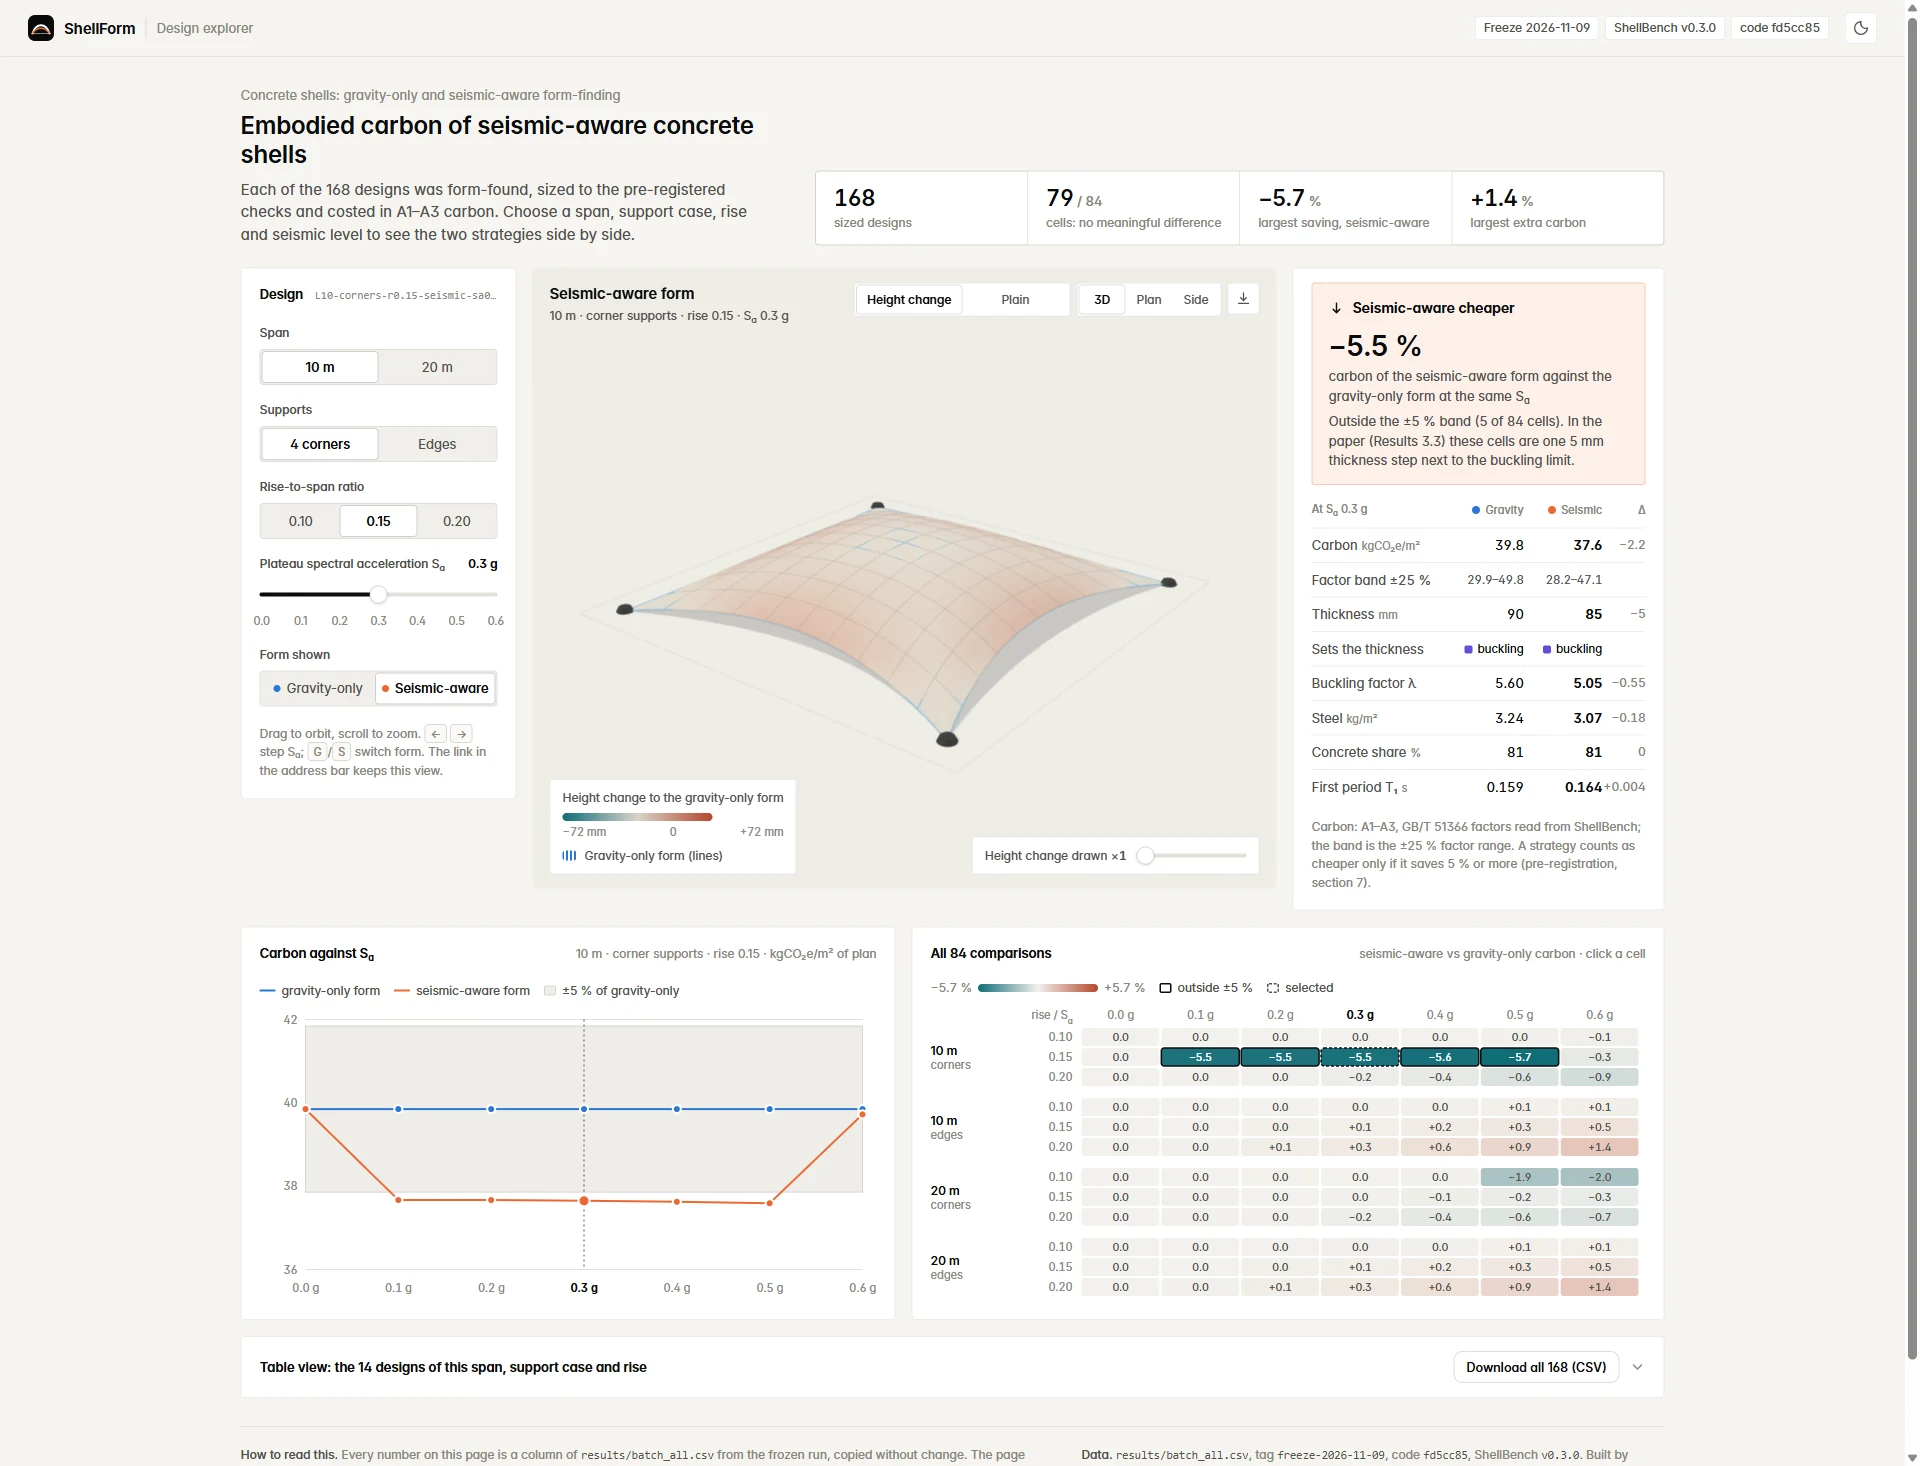
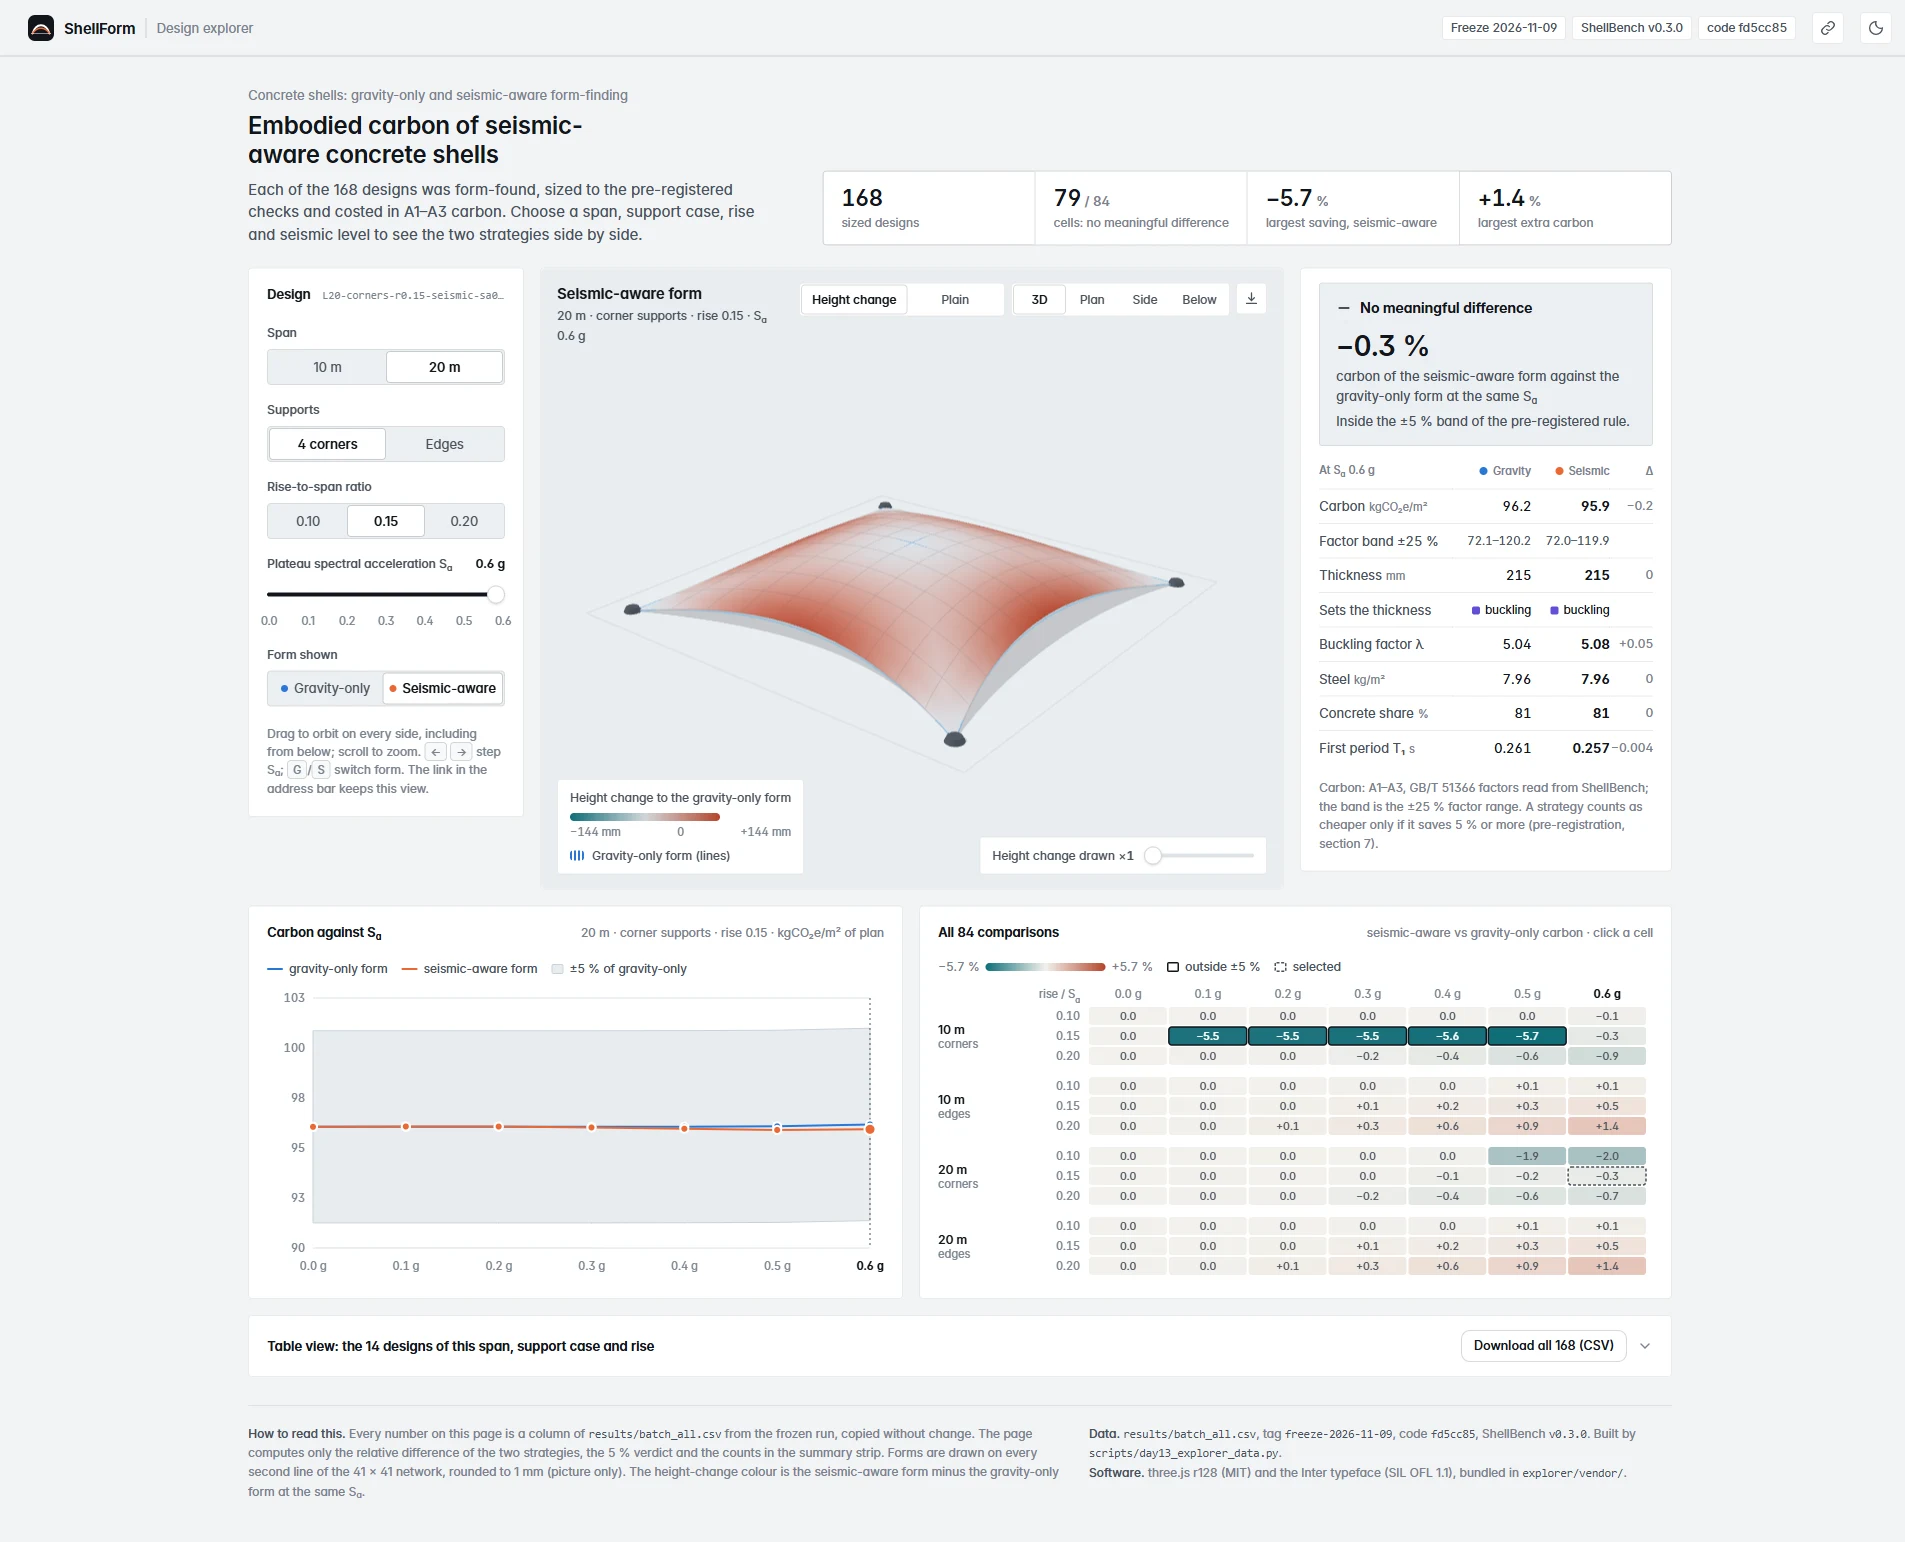
Explorer: calmer neutral palette, sticky controls, copy-link button, full 3D orbit with a Below view

diff --git a/explorer/index.html b/explorer/index.html
@@ -28,19 +28,19 @@
 /* ---- Tokens: colour roles of docs/visual_style.md (light) ---------------- */
 :root {
   color-scheme: light;
-  --page: #f6f5f1;
+  --page: #f2f4f6;
   --surface: #ffffff;
-  --surface-2: #fbfaf7;
-  --sunken: #f0efea;
-  --ink: #0b0b0b;
-  --ink-2: #52514e;
-  --muted: #898781;
-  --hair: rgba(11, 11, 11, 0.08);
-  --hair-2: rgba(11, 11, 11, 0.14);
-  --grid: #e1e0d9;
-  --axis: #c3c2b7;
-  --band: #efeee9;
-  --band-edge: #d6d4cb;
+  --surface-2: #f8f9fb;
+  --sunken: #eceff2;
+  --ink: #12161b;
+  --ink-2: #4a525c;
+  --muted: #7a838e;
+  --hair: rgba(18, 22, 27, 0.09);
+  --hair-2: rgba(18, 22, 27, 0.16);
+  --grid: #dde2e7;
+  --axis: #b7bfc8;
+  --band: #e8ecf0;
+  --band-edge: #cbd2da;
   --gravity: #2a78d6;
   --seismic: #eb6834;
   --gravity-soft: rgba(42, 120, 214, 0.10);
@@ -52,30 +52,30 @@
   --div-lo: #0f6e78;
   --div-mid: #f2f1ec;
   --div-hi: #b5452a;
-  --concrete: #d8d4ca;
+  --concrete: #d2d6da;
   --good: #0ca30c;
   --focus: #2a78d6;
   --shadow: none;
   --radius: 4px;
   --radius-sm: 3px;
-  --viewport-top: #fbfaf7;
-  --viewport-bot: #eeede7;
+  --viewport-top: #f7f8fa;
+  --viewport-bot: #e9edf1;
 }
 :root[data-theme="dark"] {
   color-scheme: dark;
-  --page: #0d0d0d;
-  --surface: #1a1a19;
-  --surface-2: #1f1f1e;
-  --sunken: #141413;
-  --ink: #f0efec;
-  --ink-2: #c3c2b7;
-  --muted: #8f8d86;
+  --page: #0e1115;
+  --surface: #161a1f;
+  --surface-2: #1b2026;
+  --sunken: #12151a;
+  --ink: #e9edf1;
+  --ink-2: #b2bbc5;
+  --muted: #828c97;
   --hair: rgba(255, 255, 255, 0.08);
   --hair-2: rgba(255, 255, 255, 0.14);
-  --grid: #2c2c2a;
-  --axis: #383835;
-  --band: #252523;
-  --band-edge: #3a3a37;
+  --grid: #262c33;
+  --axis: #39424c;
+  --band: #1f252c;
+  --band-edge: #36404a;
   --gravity: #3987e5;
   --seismic: #d95926;
   --gravity-soft: rgba(57, 135, 229, 0.16);
@@ -85,13 +85,13 @@
   --check-compression: #e87ba4;  /* light step kept in dark: #d55181 fails CVD vs aqua (docs/visual_style.md) */
   --check-deflection: #c98500;
   --div-lo: #2a9aa6;
-  --div-mid: #2a2a28;
+  --div-mid: #242a31;
   --div-hi: #d8603f;
-  --concrete: #a9a59b;
+  --concrete: #a3a9af;
   --focus: #6da7ec;
   --shadow: none;
-  --viewport-top: #222220;
-  --viewport-bot: #141413;
+  --viewport-top: #1a1f25;
+  --viewport-bot: #11151a;
 }
 
 /* ---- Base --------------------------------------------------------------- */
@@ -137,7 +137,7 @@ sub { font-size: 0.72em; }
 .wrap { max-width: 1480px; margin: 0 auto; padding: 28px 28px 40px; }
 .intro { display: grid; grid-template-columns: minmax(0, 1fr) auto; gap: 24px 40px; align-items: end; margin-bottom: 22px; }
 .eyebrow { font-size: 13px; color: var(--muted); margin: 0 0 6px; }
-h1 { font-size: 24px; line-height: 1.2; letter-spacing: -0.01em; font-weight: 600; margin: 0; max-width: 40ch; }
+h1 { font-size: 24px; line-height: 1.2; letter-spacing: -0.01em; font-weight: 600; margin: 0; max-width: 40ch; text-wrap: balance; }
 .lede { color: var(--ink-2); max-width: 64ch; margin: 10px 0 0; font-size: 15px; }
 .stats { display: grid; grid-template-columns: repeat(4, minmax(120px, 1fr)); gap: 1px; background: var(--hair); border-radius: var(--radius); overflow: hidden; border: 1px solid var(--hair); box-shadow: var(--shadow); }
 .stat { background: var(--surface); padding: 14px 18px 13px; }
@@ -263,6 +263,15 @@ footer { margin-top: 28px; padding-top: 18px; border-top: 1px solid var(--hair);
 footer b { color: var(--ink-2); font-weight: 500; }
 footer code { font-family: ui-monospace, "JetBrains Mono", Menlo, Consolas, monospace; font-size: 11.5px; color: var(--ink-2); }
 
+/* ---- Wide screens: controls stay in view ---------------------------------- */
+@media (min-width: 1241px) {
+  .grid > aside:first-child { position: sticky; top: 72px; }
+}
+.bar { box-shadow: inset 0 -1px 0 var(--hair); }
+.card-h h2 { text-transform: none; }
+.stats .stat:first-child .v { color: var(--ink); }
+.copied { color: var(--gravity) !important; }
+
 /* ---- Responsive, motion, print ------------------------------------------ */
 @media (max-width: 1240px) {
   .grid { grid-template-columns: 260px minmax(0, 1fr); }
@@ -315,6 +324,9 @@ footer code { font-family: ui-monospace, "JetBrains Mono", Menlo, Consolas, mono
   </a>
   <div class="grow"></div>
   <div class="prov" id="prov" aria-label="Data provenance"></div>
+  <button class="iconbtn" id="share" type="button" aria-label="Copy a link to this view" title="Copy link">
+    <svg viewBox="0 0 24 24" fill="none" stroke="currentColor" stroke-width="1.8" stroke-linecap="round" stroke-linejoin="round"><path d="M10 14a4.5 4.5 0 0 0 6.4 0l3-3a4.5 4.5 0 0 0-6.4-6.4l-1.2 1.2"/><path d="M14 10a4.5 4.5 0 0 0-6.4 0l-3 3a4.5 4.5 0 0 0 6.4 6.4l1.2-1.2"/></svg>
+  </button>
   <button class="iconbtn" id="theme" type="button" aria-label="Switch light or dark theme" title="Theme">
     <svg viewBox="0 0 24 24" fill="none" stroke="currentColor" stroke-width="1.8" stroke-linecap="round"><path d="M12 3a9 9 0 1 0 9 9 7 7 0 0 1-9-9Z"/></svg>
   </button>
@@ -349,7 +361,7 @@ footer code { font-family: ui-monospace, "JetBrains Mono", Menlo, Consolas, mono
         </div>
         <div class="field"><div class="lab" id="l-str">Form shown</div>
           <div class="seg" role="radiogroup" aria-labelledby="l-str" data-key="strategy"></div></div>
-        <p class="hint">Drag to orbit, scroll to zoom. <kbd>←</kbd> <kbd>→</kbd> step S<sub>a</sub>; <kbd>G</kbd>/<kbd>S</kbd> switch form. The link in the address bar keeps this view.</p>
+        <p class="hint">Drag to orbit on every side, including from below; scroll to zoom. <kbd>←</kbd> <kbd>→</kbd> step S<sub>a</sub>; <kbd>G</kbd>/<kbd>S</kbd> switch form. The link in the address bar keeps this view.</p>
       </div>
     </aside>
 
@@ -492,7 +504,7 @@ const SEGS = {
   rise: RISES.map(v => [v, v.toFixed(2)]),
   strategy: [["gravity", `<i class="dot" style="background:var(--gravity)"></i>Gravity-only`], ["seismic", `<i class="dot" style="background:var(--seismic)"></i>Seismic-aware`]],
   colour: [["dz", "Height change"], ["strategy", "Plain"]],
-  cam: [["iso", "3D"], ["plan", "Plan"], ["elev", "Side"]],
+  cam: [["iso", "3D"], ["plan", "Plan"], ["elev", "Side"], ["below", "Below"]],
 };
 document.querySelectorAll(".seg[data-key]").forEach(el => {
   const k = el.dataset.key;
@@ -565,14 +577,15 @@ else {
   camera = new THREE.PerspectiveCamera(32, 1, 0.1, 1000);
   camera.up.set(0, 0, 1);
   controls = new THREE.OrbitControls(camera, renderer.domElement);
-  controls.enableDamping = true; controls.dampingFactor = 0.08; controls.maxPolarAngle = Math.PI * 0.495;
-  scene.add(new THREE.HemisphereLight(0xffffff, 0xb9b5aa, 0.62));
-  const key = new THREE.DirectionalLight(0xfffaf2, 0.62);
+  controls.enableDamping = true; controls.dampingFactor = 0.08; controls.minPolarAngle = 0; controls.maxPolarAngle = Math.PI;  // full orbit: the shell can be seen from below as well
+  scene.add(new THREE.HemisphereLight(0xffffff, 0xb3b9c0, 0.62));
+  const key = new THREE.DirectionalLight(0xffffff, 0.62);
   key.position.set(-14, -22, 34); key.castShadow = true;
   key.shadow.mapSize.set(2048, 2048); key.shadow.radius = 6; key.shadow.bias = -0.0004;
   Object.assign(key.shadow.camera, { left: -16, right: 16, top: 16, bottom: -16, near: 1, far: 120 });
   scene.add(key);
   const rim = new THREE.DirectionalLight(0xffffff, 0.25); rim.position.set(20, 18, 10); scene.add(rim);
+  const under = new THREE.DirectionalLight(0xffffff, 0.3); under.position.set(-12, -16, -24); scene.add(under);  // soft fill so the soffit reads when viewed from below
   ground = new THREE.Mesh(new THREE.PlaneGeometry(200, 200), new THREE.ShadowMaterial({ opacity: 0.16 }));
   ground.receiveShadow = true; scene.add(ground);
   group = new THREE.Group(); scene.add(group);
@@ -652,7 +665,7 @@ let camTarget = null;
 function setCam(v) {
   S.cam = v; if (!camera) return;
   const L = S.span, zc = S.rise * L * 0.35;
-  const pos = { iso: [1.45 * L, -1.85 * L, 1.05 * L], plan: [0.001, -0.001, 2.9 * L], elev: [0, -2.7 * L, 0.2 * L] }[v];
+  const pos = { iso: [1.45 * L, -1.85 * L, 1.05 * L], plan: [0.001, -0.001, 2.9 * L], elev: [0, -2.7 * L, 0.2 * L], below: [1.2 * L, -1.6 * L, -1.9 * L] }[v] || [1.45 * L, -1.85 * L, 1.05 * L];
   const f = Math.max(1, 1.3 / (camera.aspect || 1.3));  // step back on narrow screens so the whole form fits
   camTarget = { pos: new THREE.Vector3(...pos).multiplyScalar(f), tgt: new THREE.Vector3(0, 0, zc), t: 0 };
 }
@@ -671,6 +684,7 @@ function loop() {
     camera.position.lerp(camTarget.pos, e); controls.target.lerp(camTarget.tgt, e);
     if (camTarget.t >= 1) camTarget = null;
   }
+  if (ground) ground.visible = camera.position.z > 0;  // no ground shadow when looking up from below
   controls.update(); renderer.render(scene, camera);
 }
 $("snap").addEventListener("click", () => {
@@ -855,6 +869,16 @@ function update() {
 }
 readHash();
 window.addEventListener("resize", () => { resize(); chart1(); chart2(); });
+
+/* ---------- Copy link: the address already holds the view (hash) ------------- */
+(function share() {
+  const b = $("share"); if (!b) return;
+  b.addEventListener("click", () => {
+    const url = location.href, done = () => { b.classList.add("copied"); b.title = "Link copied"; setTimeout(() => { b.classList.remove("copied"); b.title = "Copy link"; }, 1600); };
+    if (navigator.clipboard && window.isSecureContext) { navigator.clipboard.writeText(url).then(done, () => window.prompt("Copy this link:", url)); }
+    else { window.prompt("Copy this link:", url); }
+  });
+})();
 window.addEventListener("hashchange", () => { readHash(); update(); });
 resize(); update();
 if (renderer) { const t = camTarget; if (t) { camera.position.copy(t.pos); controls.target.copy(t.tgt); camTarget = null; } }

diff --git a/src/shellform/style.py b/src/shellform/style.py
@@ -19,7 +19,7 @@ Colour roles (fixed across every figure and the explorer):
   teal (lower) to brick (higher) through a warm grey zero.
 - The 5 % "no meaningful difference" band: one warm grey wash.
 
-The categorical hexes are the dataviz skill's validated reference palette
+The categorical hexes are steps of one reference palette, checked for CVD
 (light mode): strategy = slots 1-2 (adjacent CVD dE 24.7, normal dE 33.6),
 checks = slots 7, 3, 5, 4 (all-pairs normal dE >= 19.6; CVD 6.1 is in the
 floor band, legal because each check has its own marker). Validator runs are

diff --git a/docs/visual_style.md b/docs/visual_style.md
@@ -14,7 +14,7 @@ The code that carries the rules: `src/shellform/style.py` (figures) and the `:ro
 
 ## 2. Colour roles
 
-All categorical colours are steps of the dataviz skill's validated reference palette. Hexes are given as light / dark (explorer dark theme).
+All categorical colours are steps of one reference palette, checked for colour-vision deficiency (CVD) and contrast (runs below). Hexes are given as light / dark (explorer dark theme).
 
 | Role | Meaning | Light | Dark | Secondary cue |
 |---|---|---|---|---|
@@ -33,10 +33,10 @@ All categorical colours are steps of the dataviz skill's validated reference pal
 Rules:
 
 - **The two strategy colours are reserved.** Nothing else is ever blue or orange (tested). The diverging map uses teal and brick so it cannot be read as a strategy.
-- Diverging maps are symmetric about zero and interpolated in OKLab through a warm grey zero. In the 3D explorer view the zero is concrete grey `#d8d4ca` (dark `#a9a59b`) so the shell reads as concrete.
+- Diverging maps are symmetric about zero and interpolated in OKLab through a warm grey zero. In the 3D explorer view the zero is concrete grey `#d2d6da` (dark `#a3a9af`) so the shell reads as concrete.
 - Status colours (good/warning) are not used for data.
 
-Validator runs (dataviz skill, `scripts/validate_palette.js`, 9 Nov 2026):
+Palette checks (CVD simulation and ΔE, 9 Nov 2026; the script was not kept in the repo):
 
 - Strategy pair, light: all checks pass (CVD ΔE 24.7, normal ΔE 33.6). Dark: all pass (CVD 26.8, normal 31.8).
 - Checks, light, all pairs: pass; CVD ΔE 6.1 (magenta-aqua, deutan) is in the 6-8 band, legal because every check has its own marker and label; three steps are below 3:1 contrast, so they always carry a marker and text.
@@ -47,7 +47,7 @@ Validator runs (dataviz skill, `scripts/validate_palette.js`, 9 Nov 2026):
 - **Inter** (SIL OFL 1.1), bundled: `assets/fonts/*.otf` for figures, subset `.woff2` in `explorer/vendor/` for the explorer. Bundling makes figures identical on Windows and Linux. Fallbacks: Arial, Helvetica.
 - Maths in figures uses Inter through matplotlib's custom mathtext (`$S_a$`, `$\lambda_{min}$`).
 - Figure sizes at final print size: text 7 pt, ticks 6.5 pt, panel titles 7.5 pt medium, panel letters 8 pt semibold (lower case, no brackets: **a**, **b**).
-- Explorer: 14 px body, 30 px page title (−0.022 em tracking), tabular figures in every column of numbers.
+- Explorer: 14 px body, 24 px page title (22 px on phones), tabular figures in every column of numbers.
 
 ## 4. Figures
 
@@ -61,7 +61,8 @@ Validator runs (dataviz skill, `scripts/validate_palette.js`, 9 Nov 2026):
 
 ## 5. Explorer
 
-- Layout: top bar with provenance chips (freeze tag, ShellBench tag, code commit) and theme switch; page title with a four-tile summary computed from the data; three columns (controls, 3D view, comparison panel); two charts (carbon against Sa with the ±5 % band, matrix of all 84 cells); table view with CSV download; footer stating what the page computes.
+- Interface neutrals (17 Nov 2026): cool blue-grey, like a drawing sheet. Light page `#f2f4f6`, panels `#ffffff`, text `#12161b`; dark page `#0e1115`, panels `#161a1f`, text `#e9edf1`. The neutrals carry no hue of their own, so blue and orange stay the only strong colours and always mean the two strategies. Flat panels: 1 px hairlines, 4 px corners, no shadows, blur or gradients.
+- Layout: top bar with provenance chips (freeze tag, ShellBench tag, code commit), copy-link button and theme switch; camera presets 3D, Plan, Side and Below, with free orbit on every side including the underside; page title with a four-tile summary computed from the data; three columns (controls, 3D view, comparison panel; the controls stay in view while scrolling on wide screens); two charts (carbon against Sa with the ±5 % band, matrix of all 84 cells); table view with CSV download; footer stating what the page computes.
 - Controls are segmented buttons (radio groups with arrow-key support) and stepped sliders with tick labels; the state lives in the URL hash, so a view can be shared.
 - 3D: soft shadows, concrete-grey surface coloured by Δz (or plain strategy colour), gravity-only form as blue lines, supports drawn, camera presets (3D, plan, side), PNG export.
 - Every chart has a hover tooltip; the matrix is clickable; nothing relies on colour alone.
@@ -72,7 +73,7 @@ Validator runs (dataviz skill, `scripts/validate_palette.js`, 9 Nov 2026):
 - Markdown in the repo: one H1, sentence-case headings, tables for anything with more than three parallel items, numbers with units and sources.
 - Slides and posters use the colour roles of section 2 and Inter; figures are inserted from `figures/` at their native aspect ratio, never stretched.
 
-## 7. The premium checklist (run before calling any artefact done)
+## 7. Checklist before an output is called done
 
 1. Same colour, same meaning as section 2; no stray default matplotlib or browser colours.
 2. No overlapping text, clipped labels or orphan legend entries at final size (look at the rendered output, not the code).
